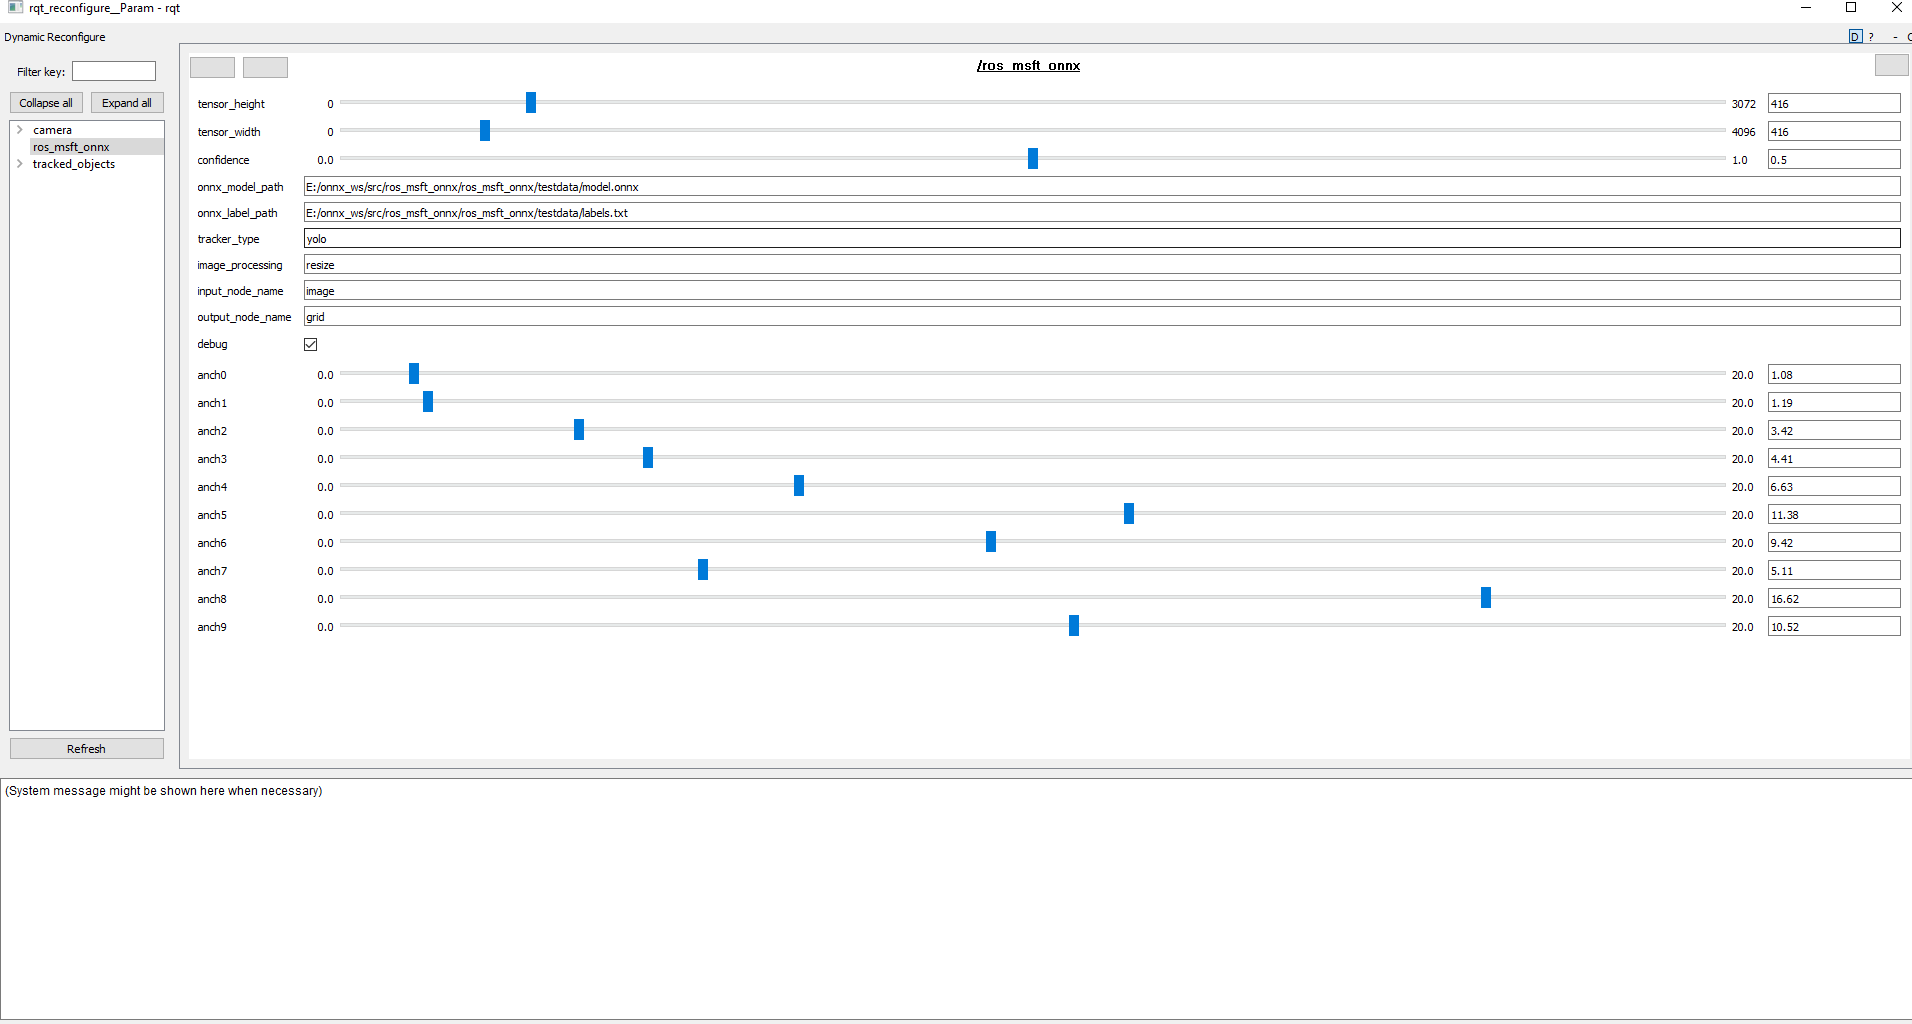
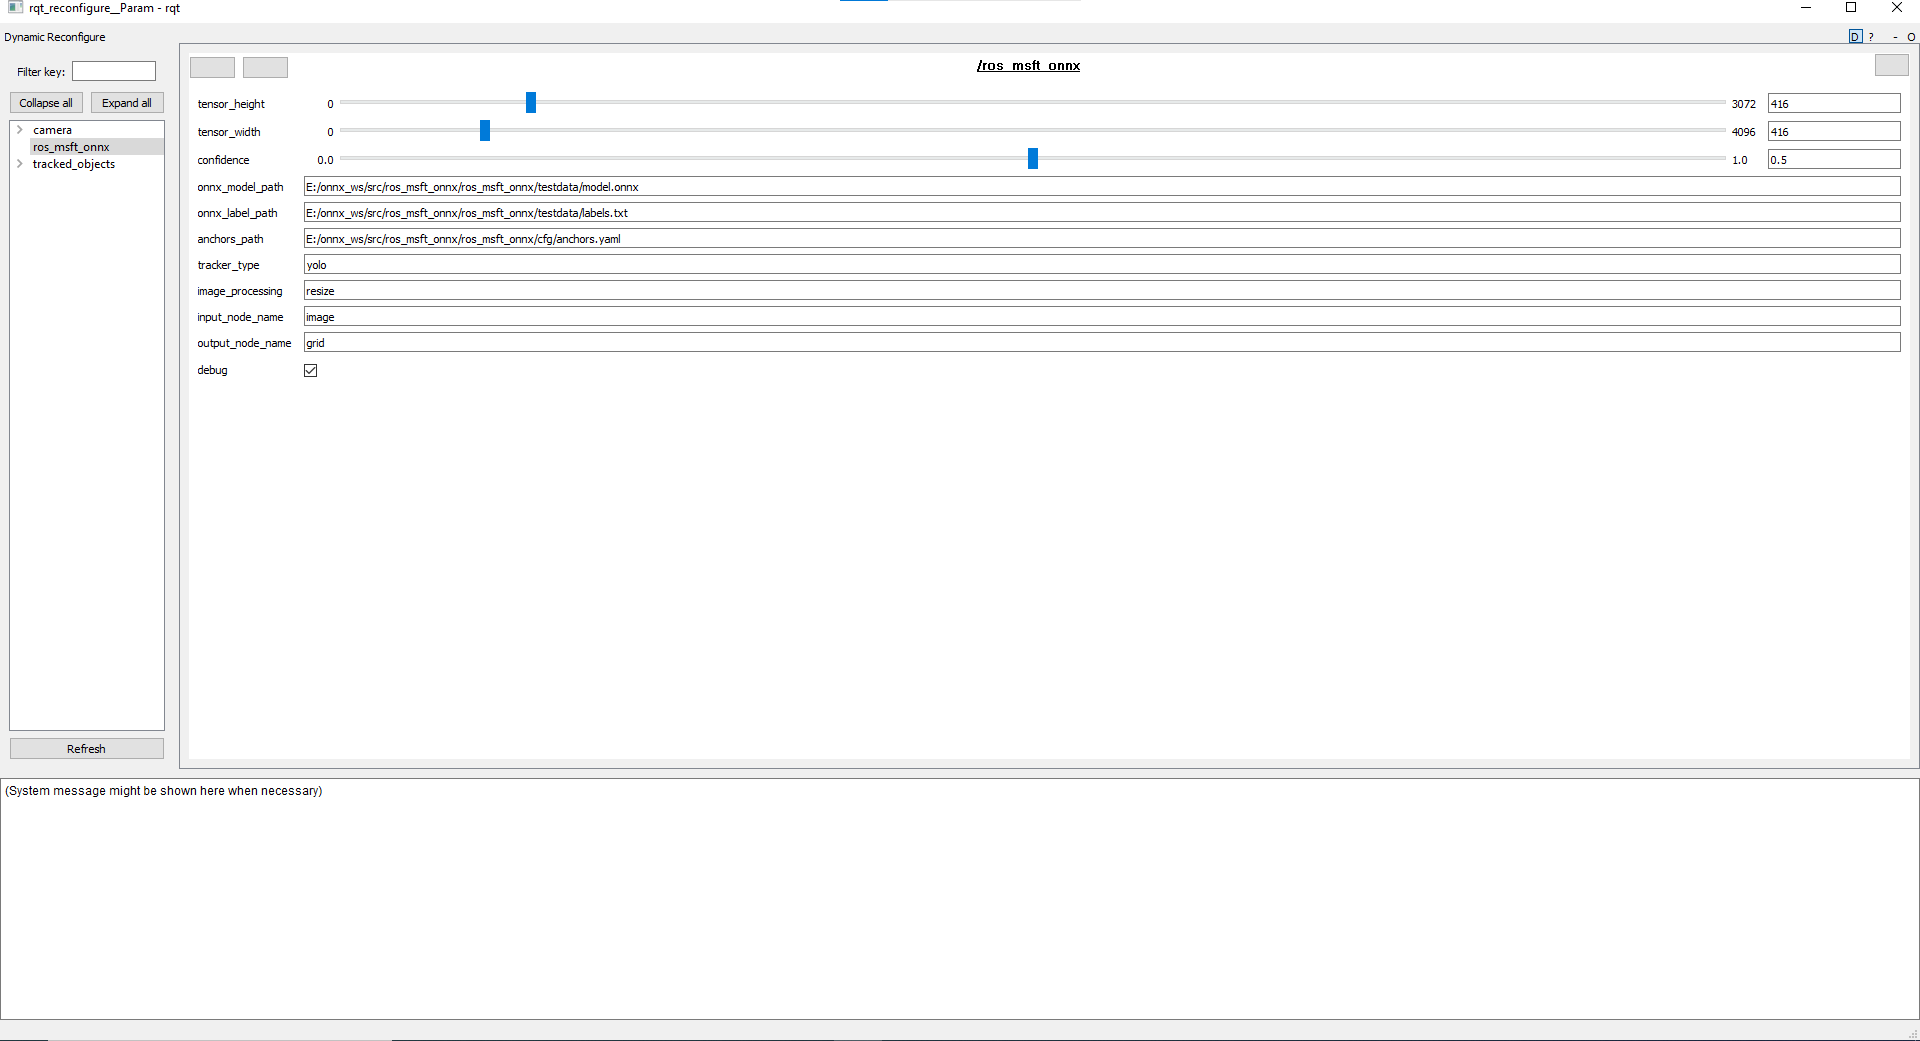
moved the anchors to a yaml file and updated the readme

diff --git a/ros_msft_onnx/src/ros_msft_onnx.cpp b/ros_msft_onnx/src/ros_msft_onnx.cpp
@@ -31,17 +31,13 @@ static std::wstring to_wstring(std::string str)
 }
 
 OnnxProcessor::OnnxProcessor()
-: _process(ImageProcessing::Scale)
-, _confidence(0.70f)
-, _debug(false)
-, _normalize(false)
+    : _process(ImageProcessing::Scale), _confidence(0.70f), _debug(false), _normalize(false)
 {
-
 }
 
-bool OnnxProcessor::init(ros::NodeHandle& nh, ros::NodeHandle& nhPrivate)
+bool OnnxProcessor::init(ros::NodeHandle &nh, ros::NodeHandle &nhPrivate)
 {
-    
+
     if (nhPrivate.getParam("image_processing", _imageProcessingType))
     {
         if (_imageProcessingType == "crop")
@@ -68,7 +64,7 @@ bool OnnxProcessor::init(ros::NodeHandle& nh, ros::NodeHandle& nhPrivate)
     {
         _tensorWidth = (uint)temp;
     }
-    else 
+    else
     {
         _tensorWidth = kDefaultTensorWidth;
     }
@@ -78,13 +74,13 @@ bool OnnxProcessor::init(ros::NodeHandle& nh, ros::NodeHandle& nhPrivate)
     {
         _tensorHeight = (uint)temp;
     }
-    else 
+    else
     {
         _tensorHeight = kDefaultTensorHeight;
     }
 
     nhPrivate.param<bool>("onnx_fake", _fake, false);
-    
+
     nhPrivate.getParam("link_name", _linkName);
 
     if (!nhPrivate.getParam("onnx_model_path", _onnxModel) ||
@@ -134,7 +130,7 @@ bool OnnxProcessor::init(ros::NodeHandle& nh, ros::NodeHandle& nhPrivate)
     image_transport::ImageTransport it(nh);
     _cameraSub = it.subscribe(imageTopic.c_str(), 1, &OnnxProcessor::ProcessImage, this);
     _image_pub = it.advertise("tracked_objects/image", 1);
-    
+
     try
     {
         //*************************************************************************
@@ -158,7 +154,7 @@ bool OnnxProcessor::init(ros::NodeHandle& nh, ros::NodeHandle& nhPrivate)
         _session = std::make_shared<Ort::Session>(*_env, modelFullPath, session_options);
         _allocator = std::make_shared<Ort::AllocatorWithDefaultOptions>();
     }
-    catch (std::exception& e)
+    catch (std::exception &e)
     {
         ROS_ERROR("ONNX: Failed to Start ML Session: %s", e.what());
         return false;
@@ -166,7 +162,7 @@ bool OnnxProcessor::init(ros::NodeHandle& nh, ros::NodeHandle& nhPrivate)
     return true;
 }
 
-void OnnxProcessor::ProcessImage(const sensor_msgs::ImageConstPtr& image) 
+void OnnxProcessor::ProcessImage(const sensor_msgs::ImageConstPtr &image)
 {
     if (_session == nullptr)
     {
@@ -180,7 +176,7 @@ void OnnxProcessor::ProcessImage(const sensor_msgs::ImageConstPtr& image)
     {
         cv_ptr = cv_bridge::toCvCopy(image, sensor_msgs::image_encodings::BGR8);
     }
-    catch (cv_bridge::Exception& e)
+    catch (cv_bridge::Exception &e)
     {
         ROS_ERROR("ONNX: cv_bridge exception: %s", e.what());
         return;
@@ -197,8 +193,8 @@ void OnnxProcessor::ProcessImage(const sensor_msgs::ImageConstPtr& image)
         return;
     }
 
-    if (_process == Crop && 
-        (uint)s.width > _tensorWidth && 
+    if (_process == Crop &&
+        (uint)s.width > _tensorWidth &&
         (uint)s.height > _tensorHeight)
     {
         // crop
@@ -230,7 +226,7 @@ void OnnxProcessor::ProcessImage(const sensor_msgs::ImageConstPtr& image)
 
         cv::resize(cv_ptr->image, image_resized, downsampleSize, 0, 0, cv::INTER_CUBIC);
 
-        // now extract the center  
+        // now extract the center
         cv::Rect ROI((downsampleSize.width - _tensorWidth) / 2, (downsampleSize.height - _tensorHeight) / 2, _tensorWidth, _tensorHeight);
         image_resized = image_resized(ROI);
     }
@@ -275,12 +271,12 @@ void OnnxProcessor::ProcessImage(const sensor_msgs::ImageConstPtr& image)
         auto output_type_info = output_tensor.GetTensorTypeAndShapeInfo();
         size_t output_total_len = output_type_info.GetElementCount();
 
-        float* floatarr = output_tensor.GetTensorMutableData<float>();
-        
+        float *floatarr = output_tensor.GetTensorMutableData<float>();
+
         output.resize(output_total_len);
         memcpy(&output[0], floatarr, output_total_len * sizeof(float));
     }
-    catch (std::exception& e)
+    catch (std::exception &e)
     {
         ROS_ERROR("ONNX: Session Failed!: %s", e.what());
         return;
@@ -289,7 +285,7 @@ void OnnxProcessor::ProcessImage(const sensor_msgs::ImageConstPtr& image)
     ProcessOutput(output, image_resized);
 }
 
-bool OnnxTracker::init(ros::NodeHandle& nh, ros::NodeHandle& nhPrivate)
+bool OnnxTracker::init(ros::NodeHandle &nh, ros::NodeHandle &nhPrivate)
 {
     _nh = nh;
     _nhPrivate = nhPrivate;
@@ -297,48 +293,34 @@ bool OnnxTracker::init(ros::NodeHandle& nh, ros::NodeHandle& nhPrivate)
     f = boost::bind(&OnnxTracker::callback, this, _1, _2);
     server.setCallback(f);
 
-    return _status;    
-
+    return _status;
 }
 
-void OnnxTracker::callback(ros_msft_onnx::reconfigConfig &config, uint32_t level) {
-  ROS_INFO("Reconfigure Request: %d %d %f %s %s %s %s %s %s %s \n", 
-            config.tensor_height, config.tensor_width, config.confidence, config.onnx_model_path.c_str(),config.onnx_label_path.c_str(),
-            config.tracker_type.c_str(), config.image_processing.c_str(), config.input_node_name.c_str(), config.output_node_name.c_str(),
-            config.debug?"True":"False");
-  ROS_INFO("Reconfigure Request: %f %f %f %f %f %f %f %f %f %f \n",
-           config.anch0, config.anch1, config.anch2, config.anch3,
-           config.anch4, config.anch5, config.anch6, config.anch7, config.anch8,
-           config.anch9);
-
-  stopProcessor();
-  startProcessor(config);
-
+void OnnxTracker::callback(ros_msft_onnx::reconfigConfig &config, uint32_t level)
+{
+    ROS_INFO("Reconfigure Request: %d %d %f %s %s %s %s %s %s %s %s\n",
+             config.tensor_height, config.tensor_width, config.confidence, config.onnx_model_path.c_str(), config.onnx_label_path.c_str(),
+             config.anchors_path.c_str(), config.tracker_type.c_str(), config.image_processing.c_str(), config.input_node_name.c_str(), 
+             config.output_node_name.c_str(), config.debug ? "True" : "False");
+    stopProcessor();
+    startProcessor(config);
 }
 
-void OnnxTracker::startProcessor(ros_msft_onnx::reconfigConfig &config){
+void OnnxTracker::startProcessor(ros_msft_onnx::reconfigConfig &config)
+{
 
     // Parameters.
-    _nhPrivate.setParam("tensor_height",config.tensor_height);
-    _nhPrivate.setParam("tensor_width",config.tensor_width);
+    _nhPrivate.setParam("tensor_height", config.tensor_height);
+    _nhPrivate.setParam("tensor_width", config.tensor_width);
     _nhPrivate.setParam("confidence", config.confidence);
     _nhPrivate.setParam("onnx_model_path", config.onnx_model_path);
     _nhPrivate.setParam("onnx_label_path", config.onnx_label_path);
+    _nhPrivate.setParam("anchors_path", config.anchors_path);
     _nhPrivate.setParam("tracker_type", config.tracker_type);
     _nhPrivate.setParam("image_processing", config.image_processing);
     _nhPrivate.setParam("input_node_name", config.input_node_name);
     _nhPrivate.setParam("output_node_name", config.output_node_name);
     _nhPrivate.setParam("debug", config.debug);
-    _nhPrivate.setParam("anch0", config.anch0);
-    _nhPrivate.setParam("anch1", config.anch1);
-    _nhPrivate.setParam("anch2", config.anch2);
-    _nhPrivate.setParam("anch3", config.anch3);
-    _nhPrivate.setParam("anch4", config.anch4);
-    _nhPrivate.setParam("anch5", config.anch5);
-    _nhPrivate.setParam("anch6", config.anch6);
-    _nhPrivate.setParam("anch7", config.anch7);
-    _nhPrivate.setParam("anch8", config.anch8);
-    _nhPrivate.setParam("anch9", config.anch9);
     std::string trackerType;
     if (_nhPrivate.getParam("tracker_type", trackerType))
     {
@@ -361,29 +343,20 @@ void OnnxTracker::startProcessor(ros_msft_onnx::reconfigConfig &config){
     _status = _processor->init(_nh, _nhPrivate);
 }
 
-void::OnnxTracker::stopProcessor(){
+void ::OnnxTracker::stopProcessor()
+{
     _nhPrivate.deleteParam("tensor_height");
     _nhPrivate.deleteParam("tensor_width");
     _nhPrivate.deleteParam("confidence");
     _nhPrivate.deleteParam("onnx_model_path");
     _nhPrivate.deleteParam("onnx_label_path");
+    _nhPrivate.deleteParam("anchors_path");
     _nhPrivate.deleteParam("tracker_type");
     _nhPrivate.deleteParam("image_processing");
     _nhPrivate.deleteParam("input_node_name");
     _nhPrivate.deleteParam("output_node_name");
     _nhPrivate.deleteParam("debug");
-    _nhPrivate.deleteParam("anch0");
-    _nhPrivate.deleteParam("anch1");
-    _nhPrivate.deleteParam("anch2");
-    _nhPrivate.deleteParam("anch3");
-    _nhPrivate.deleteParam("anch4");
-    _nhPrivate.deleteParam("anch5");
-    _nhPrivate.deleteParam("anch6");
-    _nhPrivate.deleteParam("anch7");
-    _nhPrivate.deleteParam("anch8");
-    _nhPrivate.deleteParam("anch9");
 }
-
 
 bool OnnxTracker::shutdown()
 {

diff --git a/ros_msft_onnx/src/yolo_box.cpp b/ros_msft_onnx/src/yolo_box.cpp
@@ -30,11 +30,12 @@ namespace yolo
     bool YoloProcessor::init(ros::NodeHandle &nh, ros::NodeHandle &nhPrivate)
     {
         OnnxProcessor::init(nh, nhPrivate);
-        
+
         nhPrivate.getParam("onnx_label_path", _labelPath);
-        
+
         nhPrivate.getParam("input_node_name", _inputName);
         nhPrivate.getParam("output_node_name", _outputName);
+        nhPrivate.getParam("anchors_path", _anchorsPath);
         std::ifstream file(_labelPath);
         std::string line;
         _input_node_names = {_inputName.c_str()};
@@ -56,22 +57,22 @@ namespace yolo
         _col_count = std::round(_tensorWidth / CELL_WIDTH);
         _row_count = std::round(_tensorHeight / CELL_HEIGHT);
         _anchors.clear();
-        for (int i = 0; i< 10; i++){
-        float temp;
-        nhPrivate.getParam("anch"+ std::to_string(i),temp);
-        _anchors.push_back(temp);
+        YAML::Node node = YAML::LoadFile(_anchorsPath);
+        for (auto i = 0; i < node["anchors"].size(); i++)
+        {
+            _anchors.push_back(node["anchors"][i].as<float>());
         }
 
         return true;
     }
 
-    void YoloProcessor::ProcessOutput(std::vector<float> output, cv::Mat& image)
+    void YoloProcessor::ProcessOutput(std::vector<float> output, cv::Mat &image)
     {
         if (_fake)
         {
             return;
         }
-        
+
         auto boxes = GetRecognizedObjects(output, _confidence);
 
         // If we found a person, send a message
@@ -220,8 +221,8 @@ namespace yolo
 
     int YoloProcessor::GetOffset(int x, int y, int channel)
     {
-        // YOLO outputs a tensor that has a shape of 125x13x13, which 
-        // ONNX flattens into a 1D array.  To access a specific channel 
+        // YOLO outputs a tensor that has a shape of 125x13x13, which
+        // ONNX flattens into a 1D array.  To access a specific channel
         // for a given (x,y) cell position, we need to calculate an offset
         // into the array
         int channelStride = _row_count * _col_count;
@@ -236,12 +237,12 @@ namespace yolo
 
     void YoloProcessor::Softmax(std::vector<float> &values)
     {
-        float max_val{ *std::max_element(values.begin(), values.end()) };
+        float max_val{*std::max_element(values.begin(), values.end())};
         std::transform(values.begin(), values.end(), values.begin(),
-            [&](float x) { return std::exp(x - max_val); });
+                       [&](float x) { return std::exp(x - max_val); });
 
         float exptot = std::accumulate(values.begin(), values.end(), 0.0);
         std::transform(values.begin(), values.end(), values.begin(),
-            [&](float x) { return (float)(x / exptot); });
+                       [&](float x) { return (float)(x / exptot); });
     }
 }

diff --git a/ros_msft_onnx/include/ros_msft_onnx/yolo_box.h b/ros_msft_onnx/include/ros_msft_onnx/yolo_box.h
@@ -19,6 +19,7 @@ namespace yolo
         std::string _labelPath;
         std::vector<float> _anchors;
         std::vector<std::string> _labels;
+        std::string _anchorsPath;
         int _class_count;
         int _row_count;
         int _col_count;

diff --git a/ros_msft_onnx/include/ros_msft_onnx/ros_msft_onnx.h b/ros_msft_onnx/include/ros_msft_onnx/ros_msft_onnx.h
@@ -3,6 +3,7 @@
 #include <onnxruntime_cxx_api.h>
 #include <dynamic_reconfigure/server.h>
 #include <ros_msft_onnx/reconfigConfig.h>
+#include <yaml-cpp/yaml.h>
 class OnnxProcessor
 {
 public:
